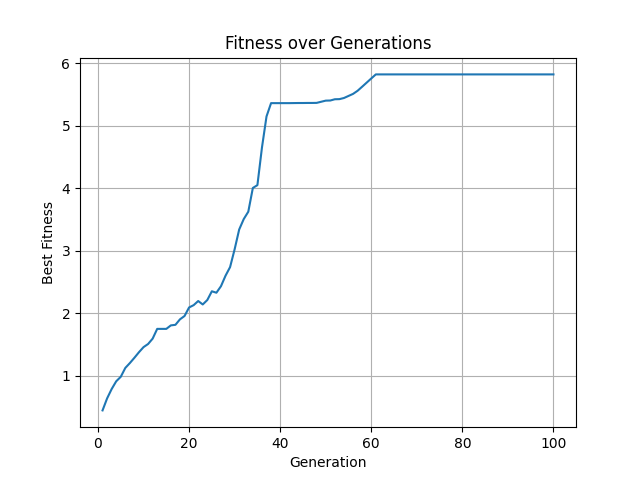
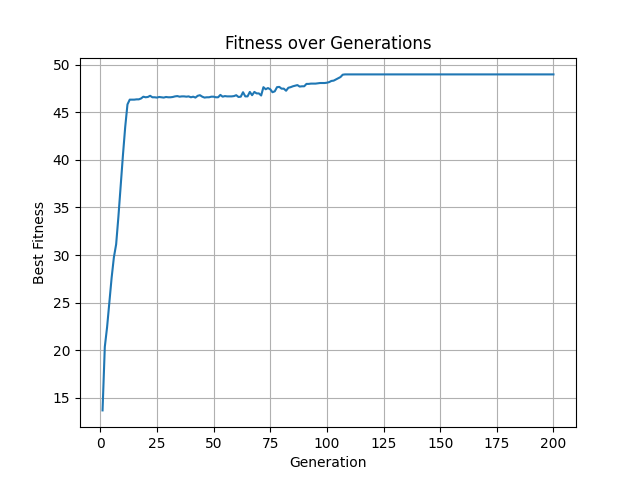
feat: flexible fittest rate

diff --git a/gen_alg.py b/gen_alg.py
@@ -8,12 +8,12 @@ from animation import animate
 
 
 NUM_GENS = 200
-NUM_INDIVIDUALS = 60
-# FITTEST_RATE = 0.2
-# NUM_FITTEST = round(NUM_INDIVIDUALS * FITTEST_RATE)
+NUM_INDIVIDUALS = 8
+FITTEST_RATE = 0.2
+NUM_FITTEST = round(NUM_INDIVIDUALS * FITTEST_RATE)
 
-MUTATED_RATE = 0.7
-NUM_MUTATED = round(NUM_INDIVIDUALS//2 * MUTATED_RATE)
+MUTATED_RATE = 0.7 * FITTEST_RATE
+NUM_MUTATED = round(NUM_INDIVIDUALS * MUTATED_RATE)
 
 MUTATION_RATE = 0.5
 NUM_MUTATIONS = round(NUM_STATES * MUTATION_RATE)
@@ -37,34 +37,30 @@ def run():
         worlds.append(World(cells=deepcopy(START_CELLS), food=deepcopy(FOOD), steps=NUM_STEPS))
         
     fitness_history = []
+    sorted = []
     for gen in range(NUM_GENS):
-        print(f"Gen {gen+1}, \
-            average: {fitness_history[-1] if fitness_history else 'N/A'}, \
-            best: {str(fittest[0]) if fitness_history else 'N/A'}")
+        print(f"Gen {gen+1} - average: {fitness_history[-1] if fitness_history else 'N/A'}, best: {str(sorted[0].fitness) if len(sorted) > 0 else 'N/A'}")
 
         for i, world in enumerate(worlds):
-            # print(f"  Individual {i+1}")
             last_world_state = world.run()
             fitness = total_cells_fitness(last_world_state)
-            print(f"    Fitness: {round(fitness, 3)}")
+            print(f"    Ind {i+1}: Fitness: {round(fitness, 3)}")
             world.fitness = fitness
 
-        fittest = get_k_fittest(worlds, NUM_INDIVIDUALS//2+2)
-        average_fitness = round(sum(worlds[i].fitness for i in range(len(fittest))) / len(fittest), 3)
+        sorted = sort_by_fitness(worlds)
+        average_fitness = round(sum(sorted[i].fitness for i in range(len(sorted))) / len(sorted), 3)
         fitness_history.append(average_fitness)
-        # print(f"Average fitness in gen {gen+1}: {average_fitness}")
-        save_rules(fittest[0].rules)
+        save_rules(sorted[0].rules)
         if gen < NUM_GENS - 1:
-            worlds = crossover(fittest)
+            worlds = crossover(sorted)
         else:
-            best_world = World(cells=deepcopy(START_CELLS), food=deepcopy(FOOD), rules=fittest[0].rules, steps=NUM_STEPS)
+            best_world = World(cells=deepcopy(START_CELLS), food=deepcopy(FOOD), rules=sorted[0].rules, steps=NUM_STEPS)
             animate(best_world)
             plot_fitness_history(fitness_history)
             
 
-def get_k_fittest(worlds, k):
-    worlds.sort(key=lambda w: w.fitness, reverse=True)
-    return worlds[:k]
+def sort_by_fitness(worlds):
+    return sorted(worlds, key=lambda w: w.fitness, reverse=True)
 
 def total_cells_fitness(last_world_state):
     return len(last_world_state.cells)
@@ -118,13 +114,15 @@ def custom_fitness(last_world_state):
 
     return abs(avg_x_cells - avg_y_energy)
 
-def crossover(fittest_worlds):
+def crossover(sorted_worlds):
 
+    fittest = sorted_worlds[:NUM_FITTEST]
+    least_fit = sorted_worlds[NUM_FITTEST:]
+    
     crossed = []
-
-    for i in range(0, len(fittest_worlds), 2):
-        parent1 = fittest_worlds[i]
-        parent2 = fittest_worlds[i+1] if i+1 < len(fittest_worlds) else fittest_worlds[0]
+    for i in range(0, len(fittest), 2):
+        parent1 = fittest[i]
+        parent2 = fittest[i+1] if i+1 < len(fittest) else fittest[0]
 
         rand_indexes = list(range(NUM_STATES))
         random.shuffle(rand_indexes)
@@ -149,7 +147,7 @@ def crossover(fittest_worlds):
         crossed.append(child1)
         crossed.append(child2)
 
-    return mutate(crossed) + fittest_worlds[:NUM_INDIVIDUALS - len(crossed)]
+    return mutate(crossed + fittest[:min(NUM_FITTEST, NUM_INDIVIDUALS - NUM_FITTEST)] + least_fit[:min(NUM_INDIVIDUALS - NUM_FITTEST - NUM_FITTEST, len(least_fit))])
 
 def mutate(worlds):
 
